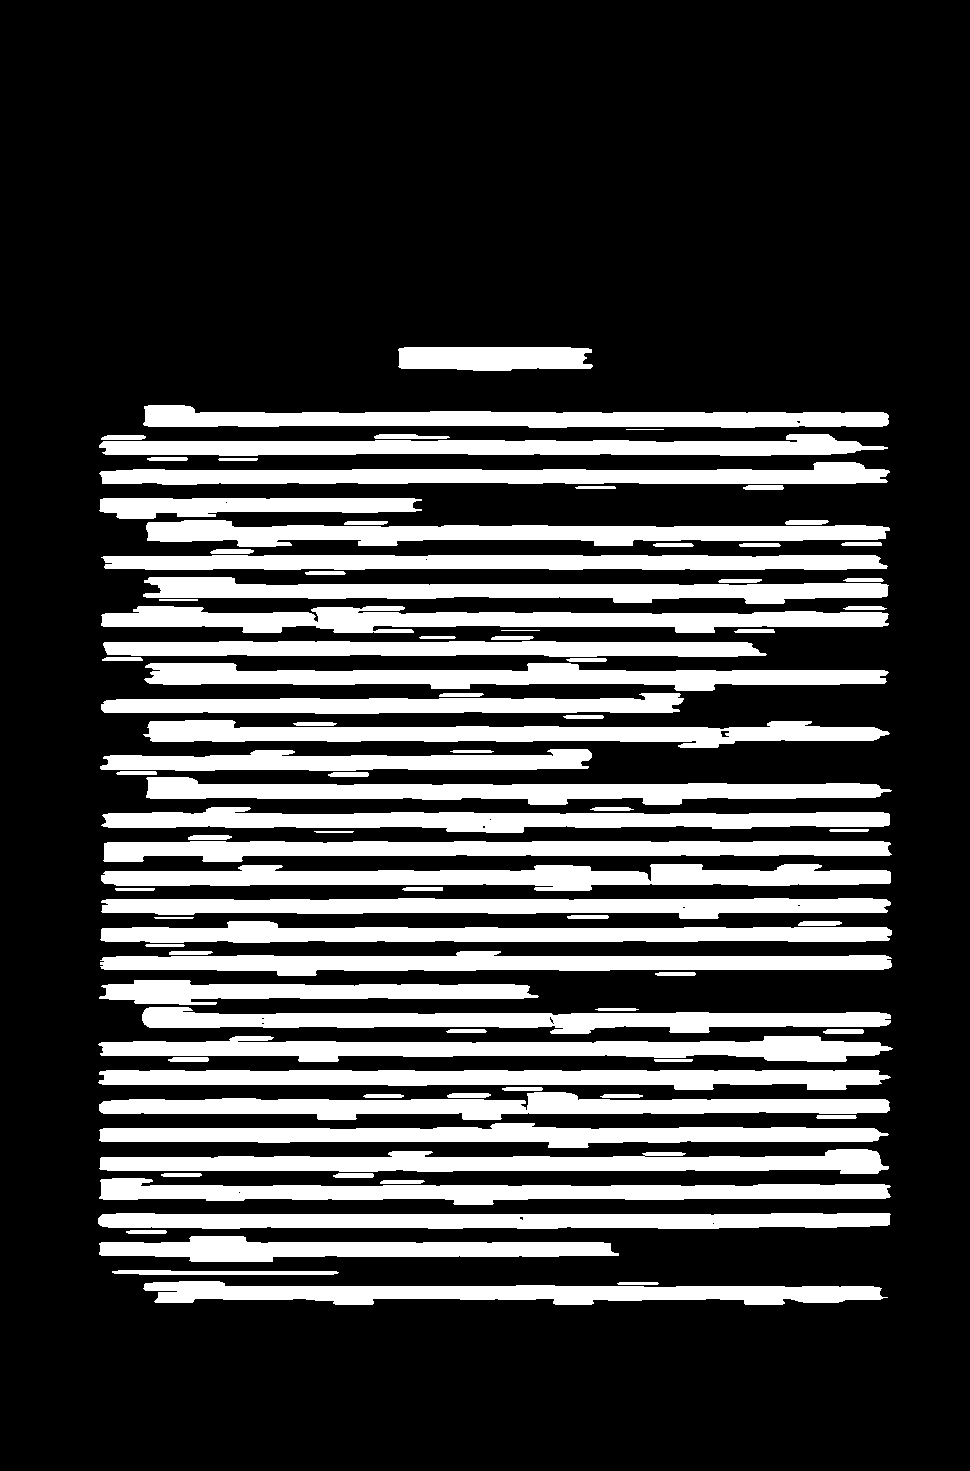
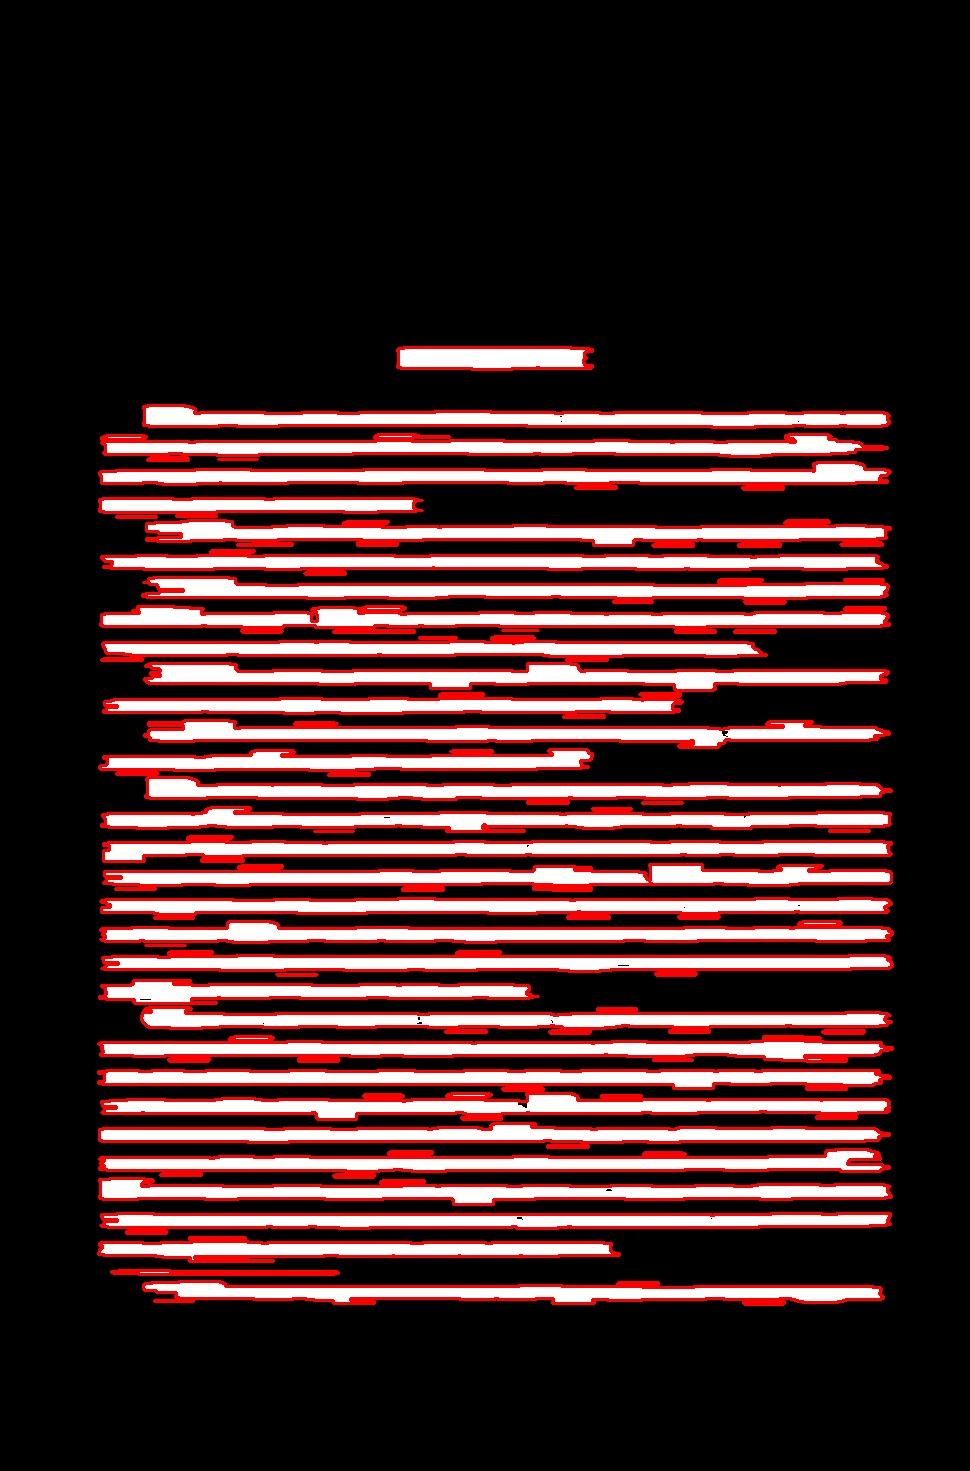
Post-deadline adjustments

Changed region(s): [[0.0928, 0.2141, 0.9278, 0.8872]]

diff --git a/REZ_3/main.py b/REZ_3/main.py
@@ -22,18 +22,21 @@ def main():
     # чтение и обработка изображения для поиска контуров строк / слов
     img = cv.imread(INPUT_IMG)
     gray = cv.cvtColor(img, cv.COLOR_BGR2GRAY)
-    blur = cv.blur(gray, (11, 3))
+    blur = cv.blur(gray, (13, 3))
     _, thresh = cv.threshold(blur, 200, 255, cv.THRESH_BINARY_INV)
     kernel = np.ones((1, 31), dtype='uint8')
     dilate = cv.dilate(thresh, kernel, iterations=1)
-
-    # сохранение промежуточного изображения
-    cv.imwrite(PROCESSED_IMG, dilate)
 
     # поиск контуров и рамок (блоков)
     contours = cv.findContours(dilate, cv.RETR_EXTERNAL,
                                cv.CHAIN_APPROX_SIMPLE)[0]
     assert len(contours) > 0, 'No contours found'
+    dilate = cv.cvtColor(dilate, cv.COLOR_GRAY2BGR)
+    cv.drawContours(dilate, contours, -1, color=LINE_COLOR,
+                    thickness=LINE_THICKNESS)
+    # сохранение промежуточного изображения
+    cv.imwrite(PROCESSED_IMG, dilate)
+
     rectangles = []
     for c in contours:
         x, y, w, h = cv.boundingRect(c)
